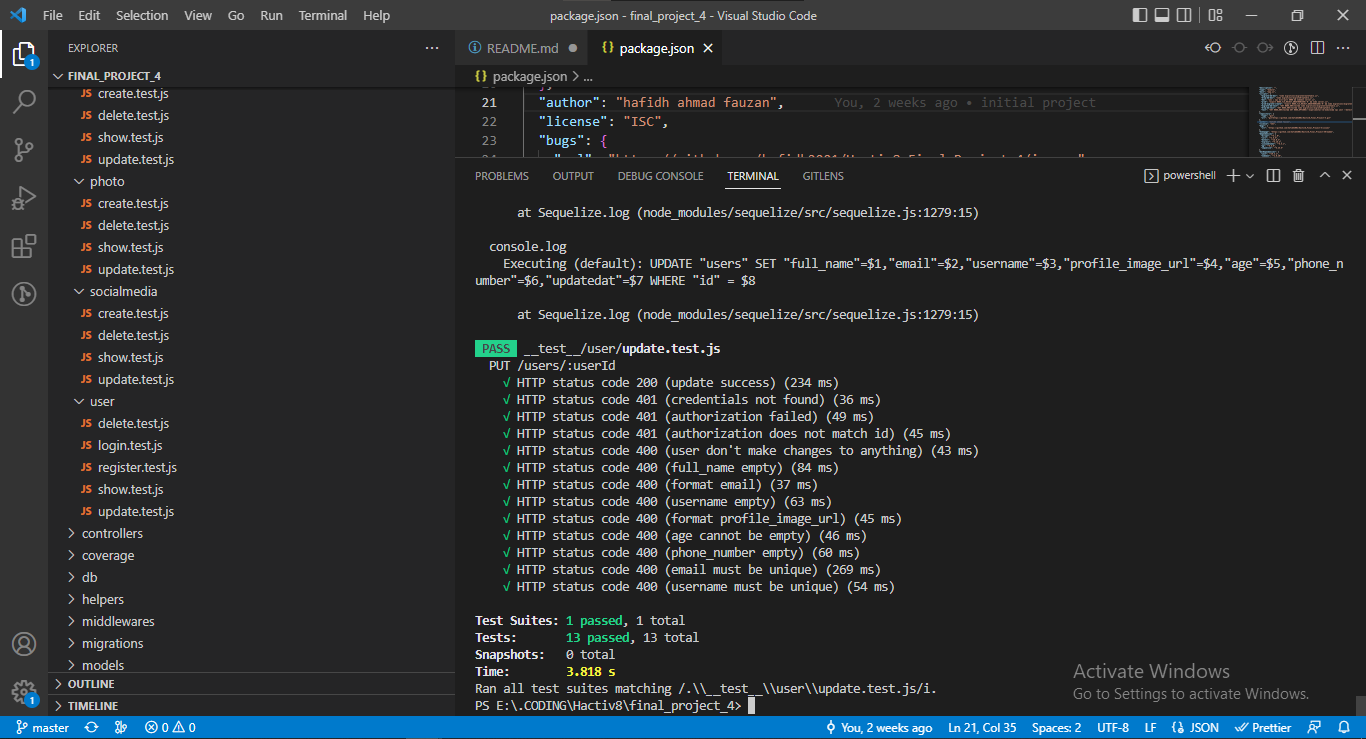
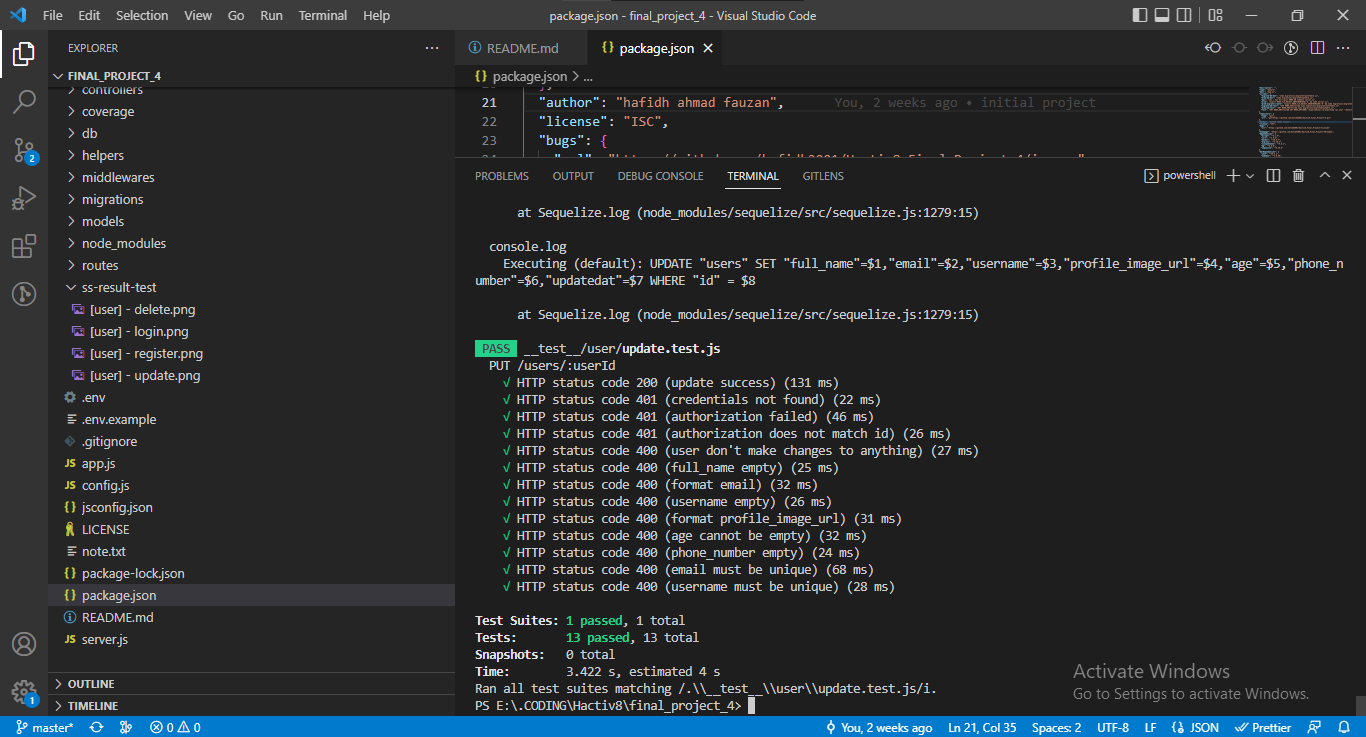
add result test [user] in readme.md

diff --git a/__test__/user/update.test.js b/__test__/user/update.test.js
@@ -69,18 +69,16 @@ describe("PUT /users/:userId", () => {
       expect.stringContaining("json")
     );
     expect(typeof res.body).toEqual("object");
-    expect(updateUserData).toHaveProperty("full_name");
-    expect(updateUserData).toHaveProperty("email");
-    expect(updateUserData).toHaveProperty("username");
-    expect(updateUserData).toHaveProperty("profile_image_url");
-    expect(updateUserData).toHaveProperty("age");
-    expect(updateUserData).toHaveProperty("phone_number");
-    expect(typeof updateUserData.full_name).toEqual("string");
-    expect(typeof updateUserData.email).toEqual("string");
-    expect(typeof updateUserData.username).toEqual("string");
-    expect(typeof updateUserData.profile_image_url).toEqual("string");
-    expect(typeof updateUserData.age).toEqual("number");
-    expect(typeof updateUserData.phone_number).toEqual("string");
+    expect(res.body).toEqual({
+      user: {
+        full_name: 'design',
+        email: 'design@gmail.com',
+        username: 'design',
+        profile_image_url: "https://design-photo.jpg",
+        age: 27,
+        phone_number: "101010101010"
+      }
+    });
   });
 
   // ERROR
